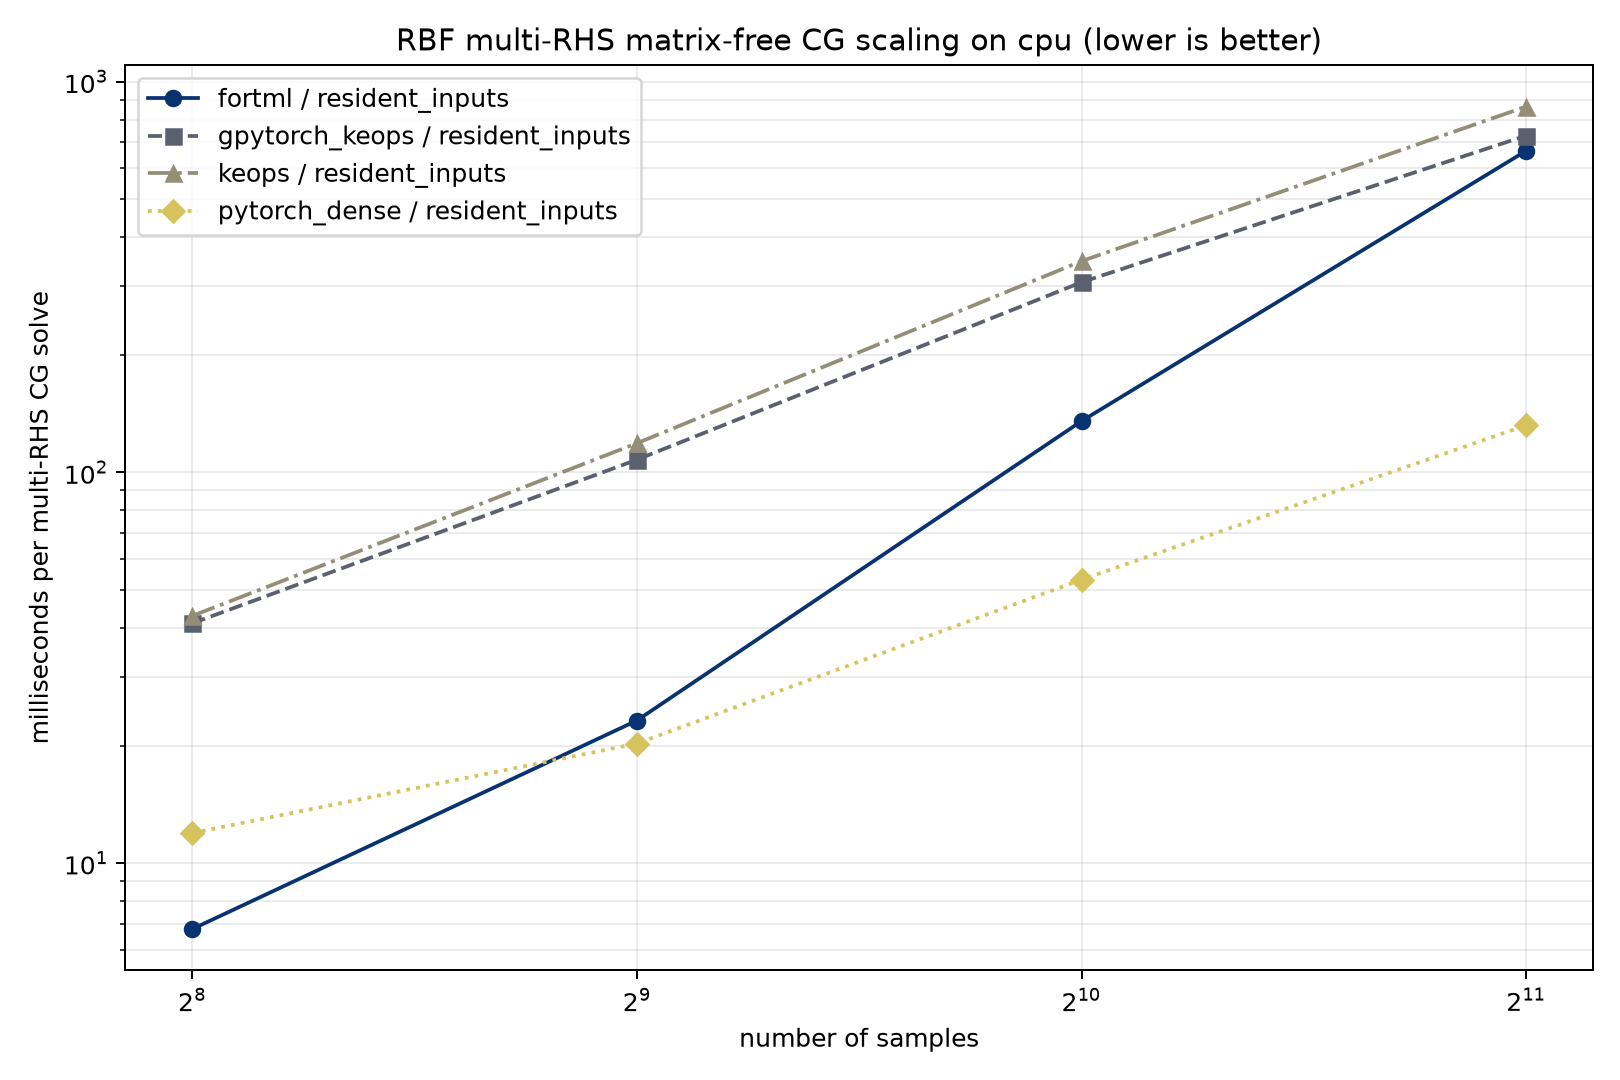
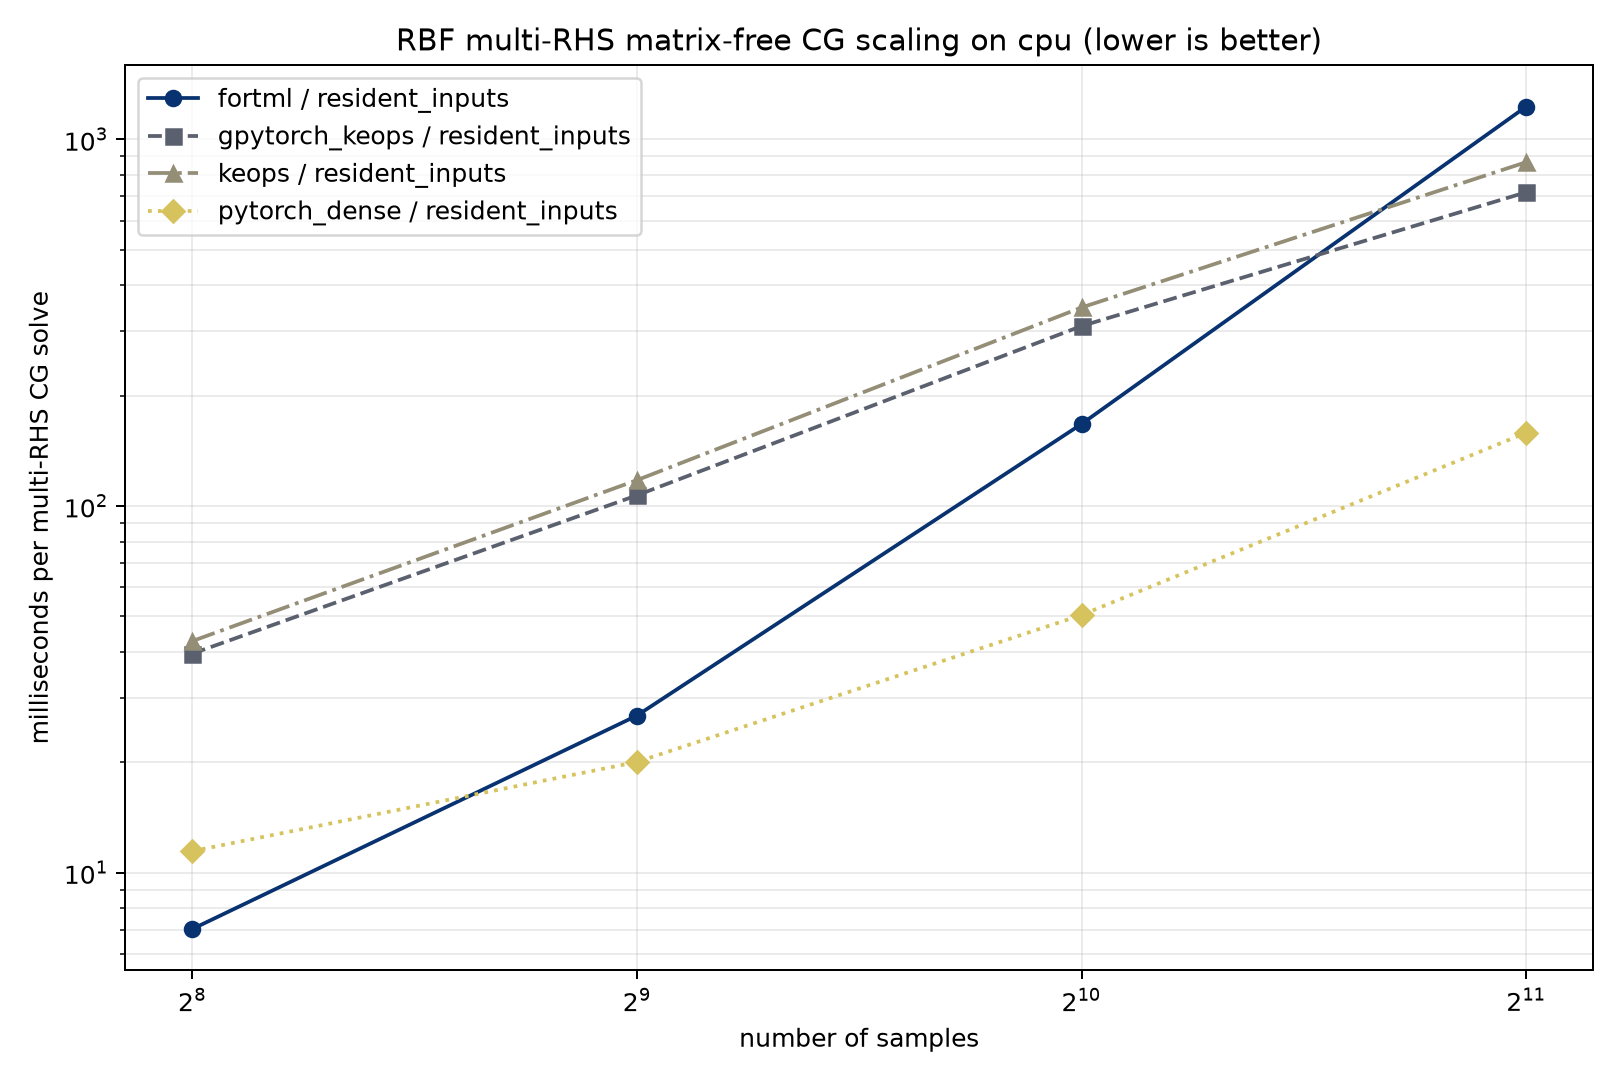
Refresh fused multi-RHS scaling evidence

diff --git a/results/rbf_cg_multi_scaling.md b/results/rbf_cg_multi_scaling.md
@@ -16,24 +16,23 @@ At 2048 samples, the default OpenACC lane records:
 
 | device | FortML | dense PyTorch | KeOps | GPyTorch-KeOps |
 | --- | ---: | ---: | ---: | ---: |
-| CPU, seconds | 0.699 | 0.128 | 0.866 | 0.735 |
-| CUDA, seconds | 0.769 | 0.355 | 0.965 | 0.848 |
+| CPU, seconds | 0.834 | 0.158 | 0.867 | 0.718 |
+| CUDA, seconds | 0.576 | 0.357 | 0.962 | 0.846 |
 
-The optional native CUDA lane records 0.328 seconds at 2048 samples. It is
+The refreshed native CUDA lane records 0.328 seconds at 2048 samples. It is
 faster than dense PyTorch, KeOps, and GPyTorch-KeOps at that endpoint. Across
-all four tested GPU sizes it remains below GPyTorch-KeOps and stays within the
-30 percent target. The native CUDA GPU plot is published at
-https://box.sloppy.at/8801e.png. The default OpenACC GPU plot is published at
-https://box.sloppy.at/2344d.png. CPU plots are
-https://box.sloppy.at/58a13.png and https://box.sloppy.at/24597.png for the
-native and default lanes.
+all four tested GPU sizes it remains within the 30 percent GPyTorch target. The
+native CUDA GPU plot is published at https://box.sloppy.at/01752.png. The
+default OpenACC GPU plot is published at https://box.sloppy.at/7976b.png. CPU
+plots are https://box.sloppy.at/802a2.png and https://box.sloppy.at/10733.png
+for the native and default lanes.
 
 The raw records are `rbf_cg_multi_scaling.csv` and
 `native_cuda/rbf_cg_multi_scaling.csv`. The source revision is `fortml`
-`f4dcd00`. The native CUDA run uses `FORTML_NATIVE_CUDA=1` and the shared
-neighbor-tile matmat kernel. Nsight Compute counters remain unavailable under
-the cluster's `ERR_NVGPUCTRPERM` restriction, so this record makes no
-occupancy or memory-counter claim.
+`e0c9a85` with `fortnum` `5bce667`. The native CUDA run uses
+`FORTML_NATIVE_CUDA=1` and the shared neighbor-tile matmat kernel. Nsight
+Compute counters remain unavailable under the cluster's `ERR_NVGPUCTRPERM`
+restriction, so this record makes no occupancy or memory-counter claim.
 
 The native GPU curve still has a higher local asymptotic slope than the
 GPyTorch-KeOps curve. Block or Nystrom preconditioning and a persistent
